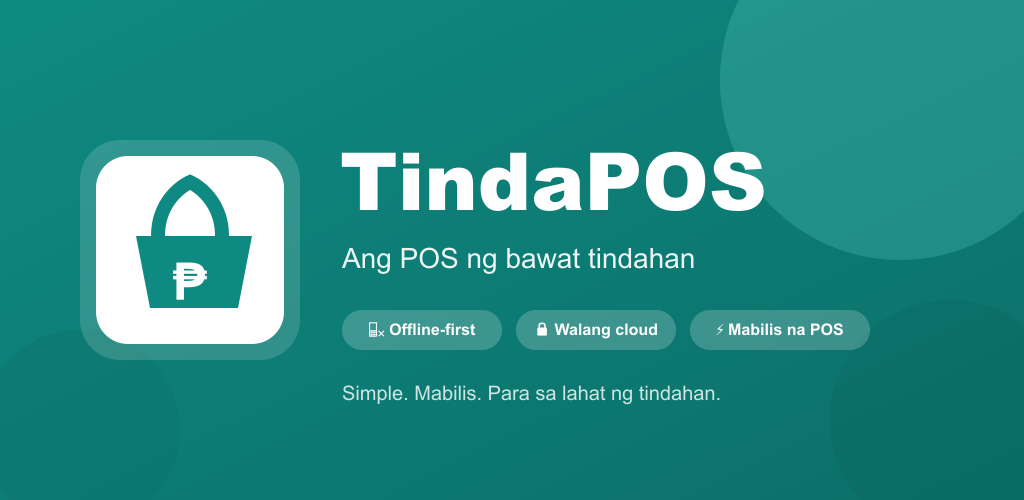
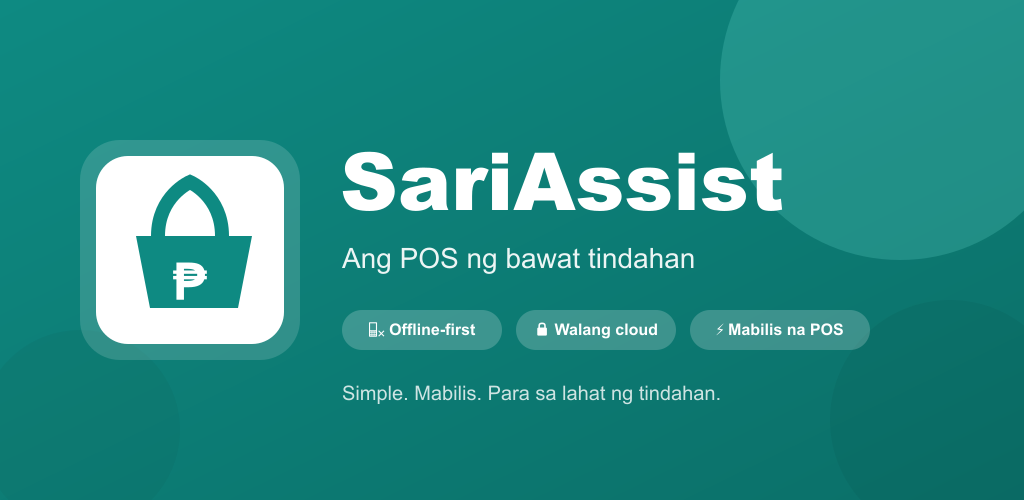
Rebrand to SariAssist (landing, manifest, privacy, feature graphic)
User-facing brand TindaPOS -> SariAssist across landing page, privacy policy, layout metadata, PWA manifest, splash, app shell; regenerated feature-graphic.png with the new wordmark. Domain + package id unchanged.

Changed region(s): [[0.3125, 0.3, 0.7812, 0.42]]

diff --git a/app/page.tsx b/app/page.tsx
@@ -2,7 +2,7 @@ import Image from "next/image";
 import Link from "next/link";
 
 export const metadata = {
-  title: "TindaPOS — Iyong tindahan. Iyong datos. Iyo lang. | Offline POS para sa sari-sari store",
+  title: "SariAssist — Iyong tindahan. Iyong datos. Iyo lang. | Offline POS para sa sari-sari store",
   description:
     "Offline-first POS para sa sari-sari store: benta, utang, stock, at kita — kahit walang internet. Nasa phone mo lang ang datos, walang server, hindi ibinebenta. Libre habang buhay (may maliit na ad); ₱50 para walang ads; ₱199 PRO na may backup. Isang beses lang, walang subscription.",
 };
@@ -23,8 +23,8 @@ export default function LandingPage() {
       {/* ── Nav ── */}
       <nav style={{ background: TEAL }} className="px-6 py-4 flex items-center justify-between sticky top-0 z-20">
         <div className="flex items-center gap-3">
-          <Image src="/icons/icon-192.png" alt="TindaPOS" width={34} height={34} className="rounded-lg" />
-          <span className="font-black text-white text-xl tracking-tight">TindaPOS</span>
+          <Image src="/icons/icon-192.png" alt="SariAssist" width={34} height={34} className="rounded-lg" />
+          <span className="font-black text-white text-xl tracking-tight">SariAssist</span>
         </div>
         <a href={PLAY_URL} className="text-sm font-bold px-5 py-2 rounded-full" style={{ background: "white", color: TEAL }}>
           ▶ Kunin sa Google Play
@@ -35,7 +35,7 @@ export default function LandingPage() {
       <section className="px-6 pt-14 pb-12 text-center max-w-3xl mx-auto">
         <div className="flex justify-center mb-7">
           <div className="rounded-3xl overflow-hidden shadow-xl" style={{ width: 104, height: 104 }}>
-            <Image src="/icons/icon-512.png" alt="TindaPOS icon" width={104} height={104} />
+            <Image src="/icons/icon-512.png" alt="SariAssist icon" width={104} height={104} />
           </div>
         </div>
         <h1 className="text-4xl sm:text-5xl font-black leading-tight tracking-tight mb-5">
@@ -131,7 +131,7 @@ export default function LandingPage() {
           <div className="rounded-3xl border-2 overflow-hidden" style={{ background: "white", borderColor: BORDER }}>
             <div className="grid grid-cols-2 text-sm sm:text-base">
               <div className="p-4 sm:p-5 font-bold text-center border-r-2 border-b-2" style={{ borderColor: BORDER, background: "#FBE9E2", color: "#7A1F0A" }}>Ibang app</div>
-              <div className="p-4 sm:p-5 font-bold text-center border-b-2" style={{ borderColor: BORDER, background: "#E2F4F0", color: TEAL_DEEP }}>TindaPOS</div>
+              <div className="p-4 sm:p-5 font-bold text-center border-b-2" style={{ borderColor: BORDER, background: "#E2F4F0", color: TEAL_DEEP }}>SariAssist</div>
               {[
                 ["Pumupunta sa kanilang server ang benta mo (kailangan ng account/cloud)", "Nasa cellphone mo lang — walang server, kaya physically hindi makakaalis ang datos mo"],
                 ["May FMCG (gaya ng GrowSari/Sari.PH) na minomonitor ang inventory at benta mo para sa supplier", "Walang FMCG, walang supplier middleman na nakatingin sa tindahan mo"],
@@ -146,7 +146,7 @@ export default function LandingPage() {
 
           <p className="text-center mt-6 text-sm leading-relaxed" style={{ color: MUTED }}>
             Para patas: hindi namin sinasabing bayad o online ang ibang app — marami ring libre at offline.
-            Ang pinagkaiba ng TindaPOS ay nasa phone mo lang ang datos (walang server para sa benta mo),
+            Ang pinagkaiba ng SariAssist ay nasa phone mo lang ang datos (walang server para sa benta mo),
             walang FMCG na nakatingin, at isang beses lang ang bayad imbes na ikaw ang maging produkto.
           </p>
         </div>
@@ -205,7 +205,7 @@ export default function LandingPage() {
       <section className="px-6 py-16 max-w-2xl mx-auto text-center">
         <h2 className="text-3xl font-black tracking-tight mb-3">Maging isa sa mga unang tindera</h2>
         <p className="text-base mb-8" style={{ color: MUTED }}>
-          Bagong app pa lang ang TindaPOS — gawa ng mga Pilipino, para sa mga Pilipino. Walang pekeng review,
+          Bagong app pa lang ang SariAssist — gawa ng mga Pilipino, para sa mga Pilipino. Walang pekeng review,
           walang bayad na endorser. Subukan mo nang libre, at sabihin sa amin kung ano ang pwede pang gawing mas maganda.
         </p>
         <a href={PLAY_URL} className="inline-block font-bold text-base px-7 py-3 rounded-full" style={{ background: TEAL, color: "white" }}>
@@ -220,9 +220,9 @@ export default function LandingPage() {
           <p className="text-center text-base mb-10" style={{ color: MUTED }}>Tapatan tayo. Heto ang totoong sagot.</p>
           <div className="flex flex-col gap-3">
             {[
-              ["Bakit may bayad kung libre ang iba?", "Libre talaga ang LIBRE habang buhay — kumpleto ang features. Magbabayad ka lang ng ₱50 o ₱199, isang beses lang, para alisin ang ad at makakuha ng backup. Walang subscription. Marami sa “libreng” app ay kumikita sa datos mo o sa supplier deals — sa TindaPOS, maliit na one-time bayad imbes na ikaw ang produkto."],
-              ["Ligtas ba ang datos ko? Ibebenta niyo ba?", "Walang server at walang account ang TindaPOS, kaya physically hindi makakaalis sa phone mo ang datos ng tindahan — walang lugar kung saan ito pupunta o ibebenta. Hinding-hindi namin ibinebenta ang datos mo kahit kailan."],
-              ["Kailangan ba ng internet?", "Hindi. Offline-first ang TindaPOS — kaya mong mag-record ng benta, utang, at inventory nang walang data o load. Optional lang ang internet (ginagamit lang ito kung may ad sa LIBRE o kapag nag-back up sa PRO)."],
+              ["Bakit may bayad kung libre ang iba?", "Libre talaga ang LIBRE habang buhay — kumpleto ang features. Magbabayad ka lang ng ₱50 o ₱199, isang beses lang, para alisin ang ad at makakuha ng backup. Walang subscription. Marami sa “libreng” app ay kumikita sa datos mo o sa supplier deals — sa SariAssist, maliit na one-time bayad imbes na ikaw ang produkto."],
+              ["Ligtas ba ang datos ko? Ibebenta niyo ba?", "Walang server at walang account ang SariAssist, kaya physically hindi makakaalis sa phone mo ang datos ng tindahan — walang lugar kung saan ito pupunta o ibebenta. Hinding-hindi namin ibinebenta ang datos mo kahit kailan."],
+              ["Kailangan ba ng internet?", "Hindi. Offline-first ang SariAssist — kaya mong mag-record ng benta, utang, at inventory nang walang data o load. Optional lang ang internet (ginagamit lang ito kung may ad sa LIBRE o kapag nag-back up sa PRO)."],
               ["May ads ba?", "Tapat kami: sa LIBRE may iisang maliit na banner galing Google AdMob — generic lang, hindi base sa benta o gawi mo. Sa LITE at PRO, walang ads at walang ad tracking. Hindi namin sinasabing “walang ads” ang buong app — may ad ang LIBRE, at tapat kami diyan."],
               ["Pwede ba alisin ang ads?", "Oo. ₱50 (LITE) o ₱199 (PRO), isang beses lang, at mawawala ang ad habang buhay — walang buwanang bayad para panatilihing wala. Sa PRO, may backup/export pa para ligtas ang datos mo."],
               ["Paano kung mawala o mapalitan ang phone — mawawala ba lahat?", "Tapat tayo: dahil nasa device lang ang datos, mawawala ito kapag nawala ang phone — maliban kung naka-backup. Kaya may CSV export/backup ang PRO (₱199): pwede mong i-save at ilipat ang datos sa bagong phone. Ito ang pinakamatibay na dahilan para mag-PRO."],

diff --git a/app/privacy/page.tsx b/app/privacy/page.tsx
@@ -1,18 +1,18 @@
 export const metadata = {
-  title: "Privacy Policy — TindaPOS",
-  description: "Privacy policy for TindaPOS",
+  title: "Privacy Policy — SariAssist",
+  description: "Privacy policy for SariAssist",
 };
 
 export default function PrivacyPage() {
   return (
     <main className="max-w-2xl mx-auto px-6 py-12 text-sm leading-relaxed" style={{ color: "#1A1714", fontFamily: "sans-serif" }}>
-      <h1 className="text-2xl font-bold mb-2" style={{ color: "#0E8A82" }}>TindaPOS — Privacy Policy</h1>
+      <h1 className="text-2xl font-bold mb-2" style={{ color: "#0E8A82" }}>SariAssist — Privacy Policy</h1>
       <p className="text-xs mb-8" style={{ color: "#6B6460" }}>Effective date: June 18, 2026</p>
 
       <section className="mb-8">
         <h2 className="text-lg font-bold mb-2">1. Overview</h2>
         <p>
-          TindaPOS is an offline-first point-of-sale app for Filipino sari-sari store owners. Your business
+          SariAssist is an offline-first point-of-sale app for Filipino sari-sari store owners. Your business
           data stays on your device. This policy explains exactly what stays private, and the one place a
           third party is involved: ads on the free (LIBRE) tier.
         </p>
@@ -40,7 +40,7 @@ export default function PrivacyPage() {
         <p className="mb-2">
           Google AdMob does <strong>not</strong> receive your business data — your sales, utang, inventory, or
           expenses are never shared with it or anyone else. The ads are generic and are not based on the data
-          you record in TindaPOS.
+          you record in SariAssist.
         </p>
         <p className="mb-2">
           On first launch we ask for ad-consent where required (via Google&apos;s consent tools). Google&apos;s
@@ -75,7 +75,7 @@ export default function PrivacyPage() {
 
       <section className="mb-8">
         <h2 className="text-lg font-bold mb-2">6. Permissions</h2>
-        <p>TindaPOS keeps permissions minimal:</p>
+        <p>SariAssist keeps permissions minimal:</p>
         <ul className="list-disc ml-6 mt-2 space-y-1">
           <li><strong>Internet</strong> — used only to load ads (LIBRE) and process purchases. The app&apos;s core features work fully offline.</li>
           <li><strong>Advertising ID</strong> — declared for AdMob ads on the LIBRE tier (Android 13+). Not used on LITE/PRO.</li>
@@ -86,7 +86,7 @@ export default function PrivacyPage() {
       <section className="mb-8">
         <h2 className="text-lg font-bold mb-2">7. Children&apos;s privacy</h2>
         <p>
-          TindaPOS is for adults operating small businesses and is not directed at children under 13. Ad
+          SariAssist is for adults operating small businesses and is not directed at children under 13. Ad
           content is configured as non–child-directed and general-audience.
         </p>
       </section>
@@ -119,7 +119,7 @@ export default function PrivacyPage() {
       </section>
 
       <p className="text-xs mt-12" style={{ color: "#6B6460" }}>
-        TindaPOS is developed by HNScorp · Philippines
+        SariAssist is developed by HNScorp · Philippines
       </p>
     </main>
   );

diff --git a/app/layout.tsx b/app/layout.tsx
@@ -10,13 +10,13 @@ const inter = Inter({
 });
 
 export const metadata: Metadata = {
-  title: "TindaPOS",
+  title: "SariAssist",
   description: "Ang POS ng bawat tindahan",
   manifest: "/manifest.json",
   appleWebApp: {
     capable: true,
     statusBarStyle: "default",
-    title: "TindaPOS",
+    title: "SariAssist",
   },
 };
 

diff --git a/components/shell/AppShell.tsx b/components/shell/AppShell.tsx
@@ -49,13 +49,13 @@ export function AppShell({ children, title, tabs }: AppShellProps) {
             <div className="flex items-center gap-3">
               <Image
                 src="/icons/icon-192.png"
-                alt="TindaPOS"
+                alt="SariAssist"
                 width={36}
                 height={36}
                 className="rounded-xl"
               />
               <div className="flex flex-col">
-                <span className="font-black text-white text-lg leading-tight tracking-tight">TindaPOS</span>
+                <span className="font-black text-white text-lg leading-tight tracking-tight">SariAssist</span>
                 <span className="text-white/70 text-xs font-medium leading-tight">{title}</span>
               </div>
             </div>

diff --git a/components/SplashScreen.tsx b/components/SplashScreen.tsx
@@ -9,7 +9,7 @@ export function SplashScreen() {
       <div className="relative w-full max-w-[640px] aspect-[1024/500] px-4">
         <Image
           src="/feature-graphic.png"
-          alt="TindaPOS — Ang POS ng bawat tindahan"
+          alt="SariAssist — Ang POS ng bawat tindahan"
           fill
           priority
           sizes="(max-width: 640px) 100vw, 640px"